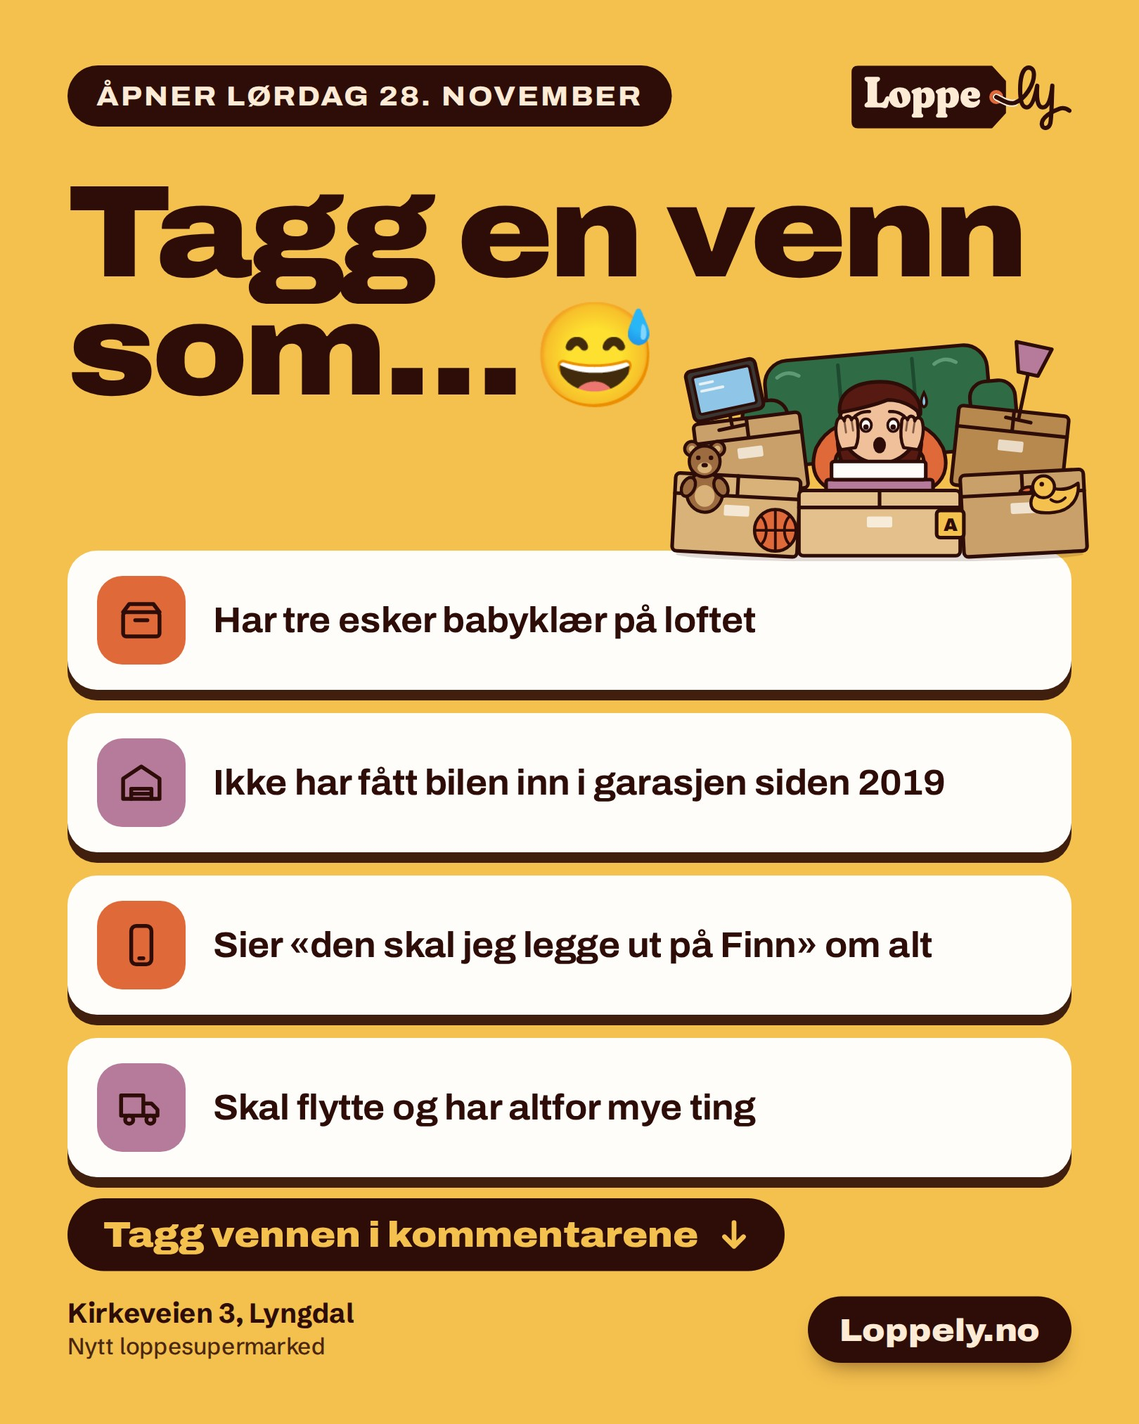
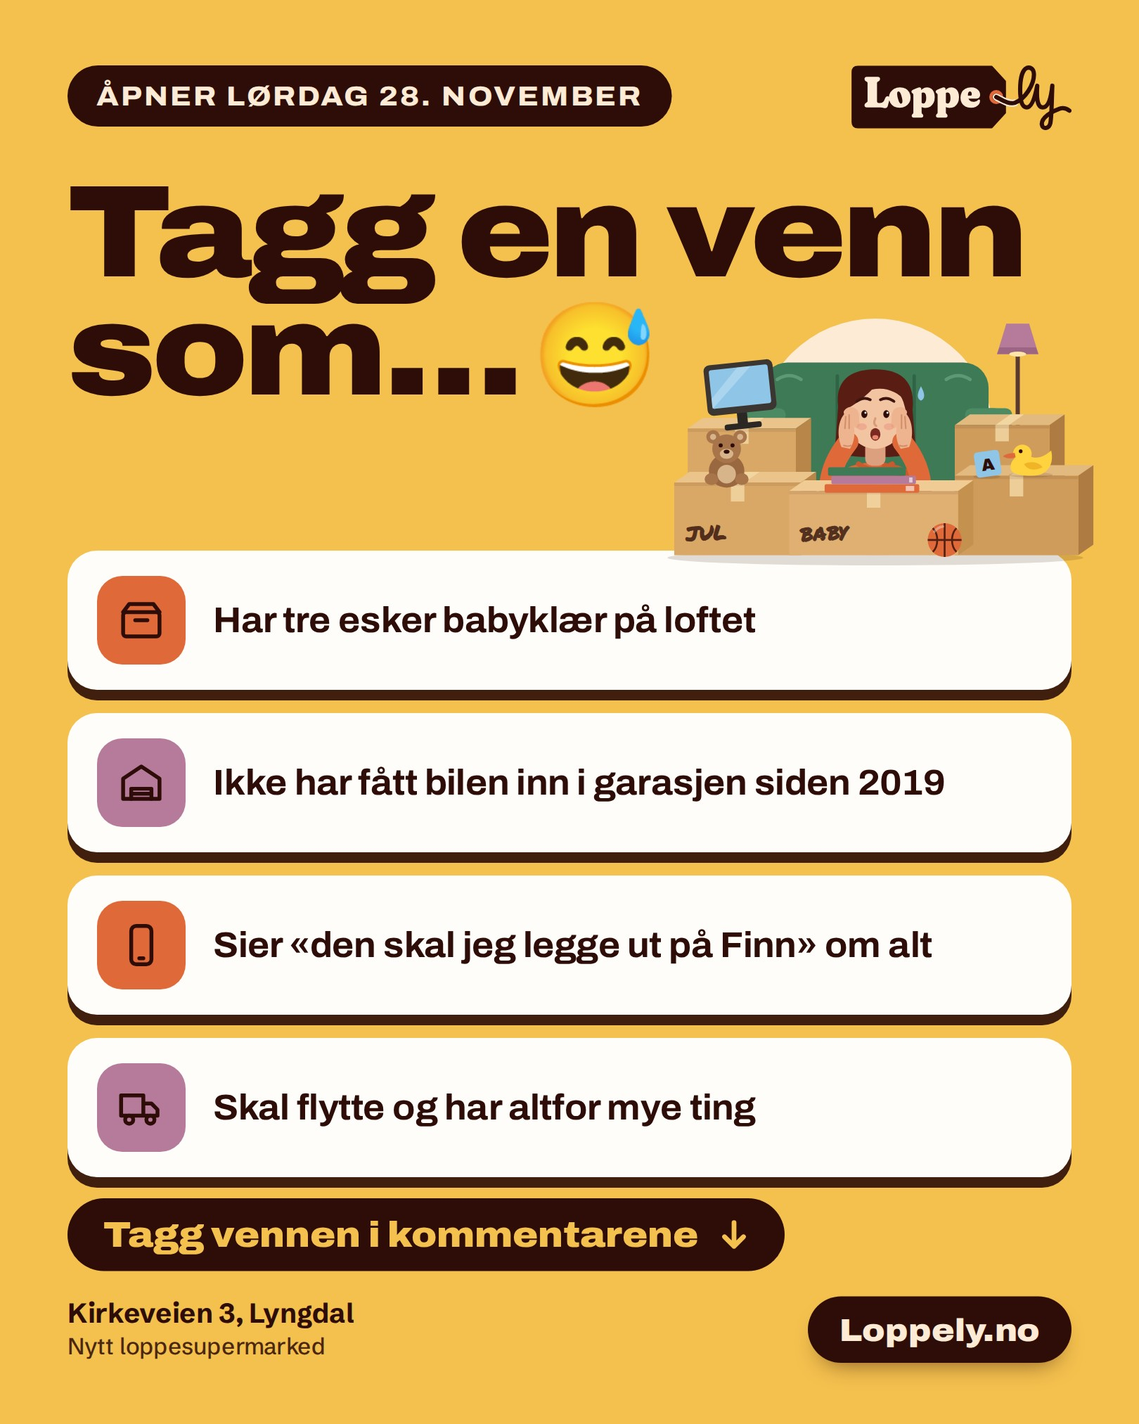
ads: post 21 ny, flat illustrasjon
Claude-Session: https://claude.ai/code/session_01RRhAi942qst8ZUNjrS2TNS

Changed region(s): [[0.5864, 0.2178, 0.9568, 0.4044]]

diff --git a/ads/index.html b/ads/index.html
@@ -47,7 +47,7 @@ footer a{color:inherit}
   </div>
   <div class="grid">
   <article class="card" id="01-konsept">
-    <a class="img" href="01-konsept.jpg?v=09291259" target="_blank"><img src="01-konsept.jpg?v=09291259" width="1620" height="2025" loading="lazy" alt="Konseptet på ett bilde"></a>
+    <a class="img" href="01-konsept.jpg?v=09291302" target="_blank"><img src="01-konsept.jpg?v=09291302" width="1620" height="2025" loading="lazy" alt="Konseptet på ett bilde"></a>
     <div class="body">
       <h2>Konseptet på ett bilde</h2>
       <p class="when">Første innlegg. Fest det øverst på siden.</p>
@@ -58,11 +58,11 @@ Loppely er et nytt loppesupermarked i Kirkeveien 3 i Lyngdal. Du leier en stand,
 Vi åpner lørdag 28. november.
 
 Les mer og meld interesse på Loppely.no</pre>
-      <div class="btns"><button class="btn copy" type="button">Kopier tekst</button><a class="btn ghost" href="01-konsept.jpg?v=09291259" download="01-konsept.jpg">Last ned bilde</a></div>
+      <div class="btns"><button class="btn copy" type="button">Kopier tekst</button><a class="btn ghost" href="01-konsept.jpg?v=09291302" download="01-konsept.jpg">Last ned bilde</a></div>
     </div>
   </article>
   <article class="card" id="02-slik-funker-det">
-    <a class="img" href="02-slik-funker-det.jpg?v=09291259" target="_blank"><img src="02-slik-funker-det.jpg?v=09291259" width="1620" height="2025" loading="lazy" alt="Slik funker det"></a>
+    <a class="img" href="02-slik-funker-det.jpg?v=09291302" target="_blank"><img src="02-slik-funker-det.jpg?v=09291302" width="1620" height="2025" loading="lazy" alt="Slik funker det"></a>
     <div class="body">
       <h2>Slik funker det</h2>
       <p class="when">Uke 1. Forklarer konseptet steg for steg.</p>
@@ -77,11 +77,11 @@ Du trenger ikke stå der selv. Følg salget på «Min side».
 
 Åpner lørdag 28. november i Kirkeveien 3, Lyngdal.
 Loppely.no</pre>
-      <div class="btns"><button class="btn copy" type="button">Kopier tekst</button><a class="btn ghost" href="02-slik-funker-det.jpg?v=09291259" download="02-slik-funker-det.jpg">Last ned bilde</a></div>
+      <div class="btns"><button class="btn copy" type="button">Kopier tekst</button><a class="btn ghost" href="02-slik-funker-det.jpg?v=09291302" download="02-slik-funker-det.jpg">Last ned bilde</a></div>
     </div>
   </article>
   <article class="card" id="03-her-er-vi">
-    <a class="img" href="03-her-er-vi.jpg?v=09291259" target="_blank"><img src="03-her-er-vi.jpg?v=09291259" width="1620" height="2025" loading="lazy" alt="Her finner du oss"></a>
+    <a class="img" href="03-her-er-vi.jpg?v=09291302" target="_blank"><img src="03-her-er-vi.jpg?v=09291302" width="1620" height="2025" loading="lazy" alt="Her finner du oss"></a>
     <div class="body">
       <h2>Her finner du oss</h2>
       <p class="when">Uke 2, og igjen uka før åpning.</p>
@@ -93,11 +93,11 @@ Loppely ligger i Kirkeveien 3, midt i Lyngdal sentrum. Gå rett ned trappen, så
 Vi åpner lørdag 28. november.
 
 Veibeskrivelse på Loppely.no</pre>
-      <div class="btns"><button class="btn copy" type="button">Kopier tekst</button><a class="btn ghost" href="03-her-er-vi.jpg?v=09291259" download="03-her-er-vi.jpg">Last ned bilde</a></div>
+      <div class="btns"><button class="btn copy" type="button">Kopier tekst</button><a class="btn ghost" href="03-her-er-vi.jpg?v=09291302" download="03-her-er-vi.jpg">Last ned bilde</a></div>
     </div>
   </article>
   <article class="card" id="04-priser">
-    <a class="img" href="04-priser.jpg?v=09291259" target="_blank"><img src="04-priser.jpg?v=09291259" width="1620" height="2025" loading="lazy" alt="Priser"></a>
+    <a class="img" href="04-priser.jpg?v=09291302" target="_blank"><img src="04-priser.jpg?v=09291302" width="1620" height="2025" loading="lazy" alt="Priser"></a>
     <div class="body">
       <h2>Priser</h2>
       <p class="when">Uke 2. Svarer på «hva koster det?».</p>
@@ -110,11 +110,11 @@ VIP: fra 349 kr per uke og 29% provisjon. Du leverer varene, vi gjør resten.
 Alle priser inkluderer mva. Laveste pris gjelder ved leie i 4 uker.
 
 Se alt på Loppely.no</pre>
-      <div class="btns"><button class="btn copy" type="button">Kopier tekst</button><a class="btn ghost" href="04-priser.jpg?v=09291259" download="04-priser.jpg">Last ned bilde</a></div>
+      <div class="btns"><button class="btn copy" type="button">Kopier tekst</button><a class="btn ghost" href="04-priser.jpg?v=09291302" download="04-priser.jpg">Last ned bilde</a></div>
     </div>
   </article>
   <article class="card" id="05-utbetalt">
-    <a class="img" href="05-utbetalt.jpg?v=09291259" target="_blank"><img src="05-utbetalt.jpg?v=09291259" width="1620" height="2025" loading="lazy" alt="Dette får du utbetalt"></a>
+    <a class="img" href="05-utbetalt.jpg?v=09291302" target="_blank"><img src="05-utbetalt.jpg?v=09291302" width="1620" height="2025" loading="lazy" alt="Dette får du utbetalt"></a>
     <div class="body">
       <h2>Dette får du utbetalt</h2>
       <p class="when">Uke 3. Gjør regnestykket konkret.</p>
@@ -125,11 +125,11 @@ Selger du noe for 500 kr hos Loppely, får du 405 kr. Provisjonen er 19%, og den
 Pengene betales ut til kontoen din hver måned.
 
 Regn på flere eksempler på Loppely.no</pre>
-      <div class="btns"><button class="btn copy" type="button">Kopier tekst</button><a class="btn ghost" href="05-utbetalt.jpg?v=09291259" download="05-utbetalt.jpg">Last ned bilde</a></div>
+      <div class="btns"><button class="btn copy" type="button">Kopier tekst</button><a class="btn ghost" href="05-utbetalt.jpg?v=09291302" download="05-utbetalt.jpg">Last ned bilde</a></div>
     </div>
   </article>
   <article class="card" id="06-forste-uke-gratis">
-    <a class="img" href="06-forste-uke-gratis.jpg?v=09291259" target="_blank"><img src="06-forste-uke-gratis.jpg?v=09291259" width="1620" height="2025" loading="lazy" alt="Første uke gratis"></a>
+    <a class="img" href="06-forste-uke-gratis.jpg?v=09291302" target="_blank"><img src="06-forste-uke-gratis.jpg?v=09291302" width="1620" height="2025" loading="lazy" alt="Første uke gratis"></a>
     <div class="body">
       <h2>Første uke gratis</h2>
       <p class="when">Når dere vil ha flere på interesselista.</p>
@@ -140,11 +140,11 @@ Meld interesse på Loppely.no, så får du første uke gratis når du leier stan
 Det er gratis og uforpliktende å stå på lista. Vi tar kontakt før åpning.
 
 Loppely åpner lørdag 28. november i Kirkeveien 3, Lyngdal.</pre>
-      <div class="btns"><button class="btn copy" type="button">Kopier tekst</button><a class="btn ghost" href="06-forste-uke-gratis.jpg?v=09291259" download="06-forste-uke-gratis.jpg">Last ned bilde</a></div>
+      <div class="btns"><button class="btn copy" type="button">Kopier tekst</button><a class="btn ghost" href="06-forste-uke-gratis.jpg?v=09291302" download="06-forste-uke-gratis.jpg">Last ned bilde</a></div>
     </div>
   </article>
   <article class="card" id="07-hva-kan-du-selge">
-    <a class="img" href="07-hva-kan-du-selge.jpg?v=09291259" target="_blank"><img src="07-hva-kan-du-selge.jpg?v=09291259" width="1620" height="2025" loading="lazy" alt="Hva kan du selge?"></a>
+    <a class="img" href="07-hva-kan-du-selge.jpg?v=09291302" target="_blank"><img src="07-hva-kan-du-selge.jpg?v=09291302" width="1620" height="2025" loading="lazy" alt="Hva kan du selge?"></a>
     <div class="body">
       <h2>Hva kan du selge?</h2>
       <p class="when">Uke 3. Får folk til å tenke på boden sin.</p>
@@ -155,11 +155,11 @@ Hos Loppely kan du selge klær, barneting, leker, bøker, kjøkkenutstyr, sports
 Større ting som sykler, barnevogner og mindre møbler selger du for 39 kr per uke.
 
 Se hva du kan selge på Loppely.no</pre>
-      <div class="btns"><button class="btn copy" type="button">Kopier tekst</button><a class="btn ghost" href="07-hva-kan-du-selge.jpg?v=09291259" download="07-hva-kan-du-selge.jpg">Last ned bilde</a></div>
+      <div class="btns"><button class="btn copy" type="button">Kopier tekst</button><a class="btn ghost" href="07-hva-kan-du-selge.jpg?v=09291302" download="07-hva-kan-du-selge.jpg">Last ned bilde</a></div>
     </div>
   </article>
   <article class="card" id="08-vip">
-    <a class="img" href="08-vip.jpg?v=09291259" target="_blank"><img src="08-vip.jpg?v=09291259" width="1620" height="2025" loading="lazy" alt="VIP: Vi gjør alt"></a>
+    <a class="img" href="08-vip.jpg?v=09291302" target="_blank"><img src="08-vip.jpg?v=09291302" width="1620" height="2025" loading="lazy" alt="VIP: Vi gjør alt"></a>
     <div class="body">
       <h2>VIP: Vi gjør alt</h2>
       <p class="when">For dem som ikke har tid.</p>
@@ -170,11 +170,11 @@ Du leverer varene, så tar vi bilder, priser og registrerer dem, og gjør stande
 Fra 349 kr per uke og 29% provisjon.
 
 Les mer på Loppely.no</pre>
-      <div class="btns"><button class="btn copy" type="button">Kopier tekst</button><a class="btn ghost" href="08-vip.jpg?v=09291259" download="08-vip.jpg">Last ned bilde</a></div>
+      <div class="btns"><button class="btn copy" type="button">Kopier tekst</button><a class="btn ghost" href="08-vip.jpg?v=09291302" download="08-vip.jpg">Last ned bilde</a></div>
     </div>
   </article>
   <article class="card" id="09-merk-datoen">
-    <a class="img" href="09-merk-datoen.jpg?v=09291259" target="_blank"><img src="09-merk-datoen.jpg?v=09291259" width="1620" height="2025" loading="lazy" alt="Merk datoen"></a>
+    <a class="img" href="09-merk-datoen.jpg?v=09291302" target="_blank"><img src="09-merk-datoen.jpg?v=09291302" width="1620" height="2025" loading="lazy" alt="Merk datoen"></a>
     <div class="body">
       <h2>Merk datoen</h2>
       <p class="when">2 til 3 uker før åpning, og dagen før.</p>
@@ -184,11 +184,11 @@ Lørdag 28. november kl. 10 åpner Loppely i Kirkeveien 3, Lyngdal. Et helt nytt
 
 Vil du selge? Meld interesse på Loppely.no
 Vil du handle? Vi sees 28. november!</pre>
-      <div class="btns"><button class="btn copy" type="button">Kopier tekst</button><a class="btn ghost" href="09-merk-datoen.jpg?v=09291259" download="09-merk-datoen.jpg">Last ned bilde</a></div>
+      <div class="btns"><button class="btn copy" type="button">Kopier tekst</button><a class="btn ghost" href="09-merk-datoen.jpg?v=09291302" download="09-merk-datoen.jpg">Last ned bilde</a></div>
     </div>
   </article>
   <article class="card" id="10-rydd-til-jul">
-    <a class="img" href="10-rydd-til-jul.jpg?v=09291259" target="_blank"><img src="10-rydd-til-jul.jpg?v=09291259" width="1620" height="2025" loading="lazy" alt="Rydd plass til jul"></a>
+    <a class="img" href="10-rydd-til-jul.jpg?v=09291302" target="_blank"><img src="10-rydd-til-jul.jpg?v=09291302" width="1620" height="2025" loading="lazy" alt="Rydd plass til jul"></a>
     <div class="body">
       <h2>Rydd plass til jul</h2>
       <p class="when">Fra midten av november.</p>
@@ -199,11 +199,11 @@ Leker barna har vokst fra, klær som ikke passer, ting som bare står i boden. D
 Lei en stand hos Loppely, så selger vi for deg gjennom hele julehandelen. Vi åpner lørdag 28. november.
 
 Loppely.no</pre>
-      <div class="btns"><button class="btn copy" type="button">Kopier tekst</button><a class="btn ghost" href="10-rydd-til-jul.jpg?v=09291259" download="10-rydd-til-jul.jpg">Last ned bilde</a></div>
+      <div class="btns"><button class="btn copy" type="button">Kopier tekst</button><a class="btn ghost" href="10-rydd-til-jul.jpg?v=09291302" download="10-rydd-til-jul.jpg">Last ned bilde</a></div>
     </div>
   </article>
   <article class="card" id="11-hvem-er-vi">
-    <a class="img" href="11-hvem-er-vi.jpg?v=09291259" target="_blank"><img src="11-hvem-er-vi.jpg?v=09291259" width="1620" height="2025" loading="lazy" alt="Hvem er vi"></a>
+    <a class="img" href="11-hvem-er-vi.jpg?v=09291302" target="_blank"><img src="11-hvem-er-vi.jpg?v=09291302" width="1620" height="2025" loading="lazy" alt="Hvem er vi"></a>
     <div class="body">
       <h2>Hvem er vi</h2>
       <p class="when">Tidlig. Folk handler med folk.</p>
@@ -214,11 +214,11 @@ Vi åpner Loppely i Lyngdal fordi vi mener gode ting fortjener et nytt hjem, og 
 Lørdag 28. november åpner vi dørene i Kirkeveien 3. Vi gleder oss til å se dere!
 
 Loppely.no</pre>
-      <div class="btns"><button class="btn copy" type="button">Kopier tekst</button><a class="btn ghost" href="11-hvem-er-vi.jpg?v=09291259" download="11-hvem-er-vi.jpg">Last ned bilde</a></div>
+      <div class="btns"><button class="btn copy" type="button">Kopier tekst</button><a class="btn ghost" href="11-hvem-er-vi.jpg?v=09291302" download="11-hvem-er-vi.jpg">Last ned bilde</a></div>
     </div>
   </article>
   <article class="card" id="12-for-og-etter">
-    <a class="img" href="12-for-og-etter.jpg?v=09291259" target="_blank"><img src="12-for-og-etter.jpg?v=09291259" width="1620" height="2025" loading="lazy" alt="Før og etter"></a>
+    <a class="img" href="12-for-og-etter.jpg?v=09291302" target="_blank"><img src="12-for-og-etter.jpg?v=09291302" width="1620" height="2025" loading="lazy" alt="Før og etter"></a>
     <div class="body">
       <h2>Før og etter</h2>
       <p class="when">Når som helst. Viser gevinsten på ett blikk.</p>
@@ -228,11 +228,11 @@ Lei en stand hos Loppely, sett prisen, og la oss selge tingene for deg. Du får 
 
 Åpner lørdag 28. november i Kirkeveien 3, Lyngdal.
 Loppely.no</pre>
-      <div class="btns"><button class="btn copy" type="button">Kopier tekst</button><a class="btn ghost" href="12-for-og-etter.jpg?v=09291259" download="12-for-og-etter.jpg">Last ned bilde</a></div>
+      <div class="btns"><button class="btn copy" type="button">Kopier tekst</button><a class="btn ghost" href="12-for-og-etter.jpg?v=09291302" download="12-for-og-etter.jpg">Last ned bilde</a></div>
     </div>
   </article>
   <article class="card" id="13-avstemning">
-    <a class="img" href="13-avstemning.jpg?v=09291259" target="_blank"><img src="13-avstemning.jpg?v=09291259" width="1620" height="2025" loading="lazy" alt="Avstemning: Hva ligger i boden?"></a>
+    <a class="img" href="13-avstemning.jpg?v=09291302" target="_blank"><img src="13-avstemning.jpg?v=09291302" width="1620" height="2025" loading="lazy" alt="Avstemning: Hva ligger i boden?"></a>
     <div class="body">
       <h2>Avstemning: Hva ligger i boden?</h2>
       <p class="when">For engasjement. Svar på kommentarene.</p>
@@ -246,11 +246,11 @@ D. Alt mulig rart
 Svar med bokstaven i kommentarfeltet. Uansett svar: alt dette kan du selge hos Loppely fra 28. november.
 
 Loppely.no</pre>
-      <div class="btns"><button class="btn copy" type="button">Kopier tekst</button><a class="btn ghost" href="13-avstemning.jpg?v=09291259" download="13-avstemning.jpg">Last ned bilde</a></div>
+      <div class="btns"><button class="btn copy" type="button">Kopier tekst</button><a class="btn ghost" href="13-avstemning.jpg?v=09291302" download="13-avstemning.jpg">Last ned bilde</a></div>
     </div>
   </article>
   <article class="card" id="14-19-prosent">
-    <a class="img" href="14-19-prosent.jpg?v=09291259" target="_blank"><img src="14-19-prosent.jpg?v=09291259" width="1620" height="2025" loading="lazy" alt="19%"></a>
+    <a class="img" href="14-19-prosent.jpg?v=09291302" target="_blank"><img src="14-19-prosent.jpg?v=09291302" width="1620" height="2025" loading="lazy" alt="19%"></a>
     <div class="body">
       <h2>19%</h2>
       <p class="when">Uke 3. Enkelt og tydelig.</p>
@@ -260,11 +260,11 @@ For det står vi i kassen, rydder standen hver dag, og du følger salget på «M
 
 Stand fra 200 kr per uke. Åpner 28. november.
 Loppely.no</pre>
-      <div class="btns"><button class="btn copy" type="button">Kopier tekst</button><a class="btn ghost" href="14-19-prosent.jpg?v=09291259" download="14-19-prosent.jpg">Last ned bilde</a></div>
+      <div class="btns"><button class="btn copy" type="button">Kopier tekst</button><a class="btn ghost" href="14-19-prosent.jpg?v=09291302" download="14-19-prosent.jpg">Last ned bilde</a></div>
     </div>
   </article>
   <article class="card" id="15-prislapp">
-    <a class="img" href="15-prislapp.jpg?v=09291259" target="_blank"><img src="15-prislapp.jpg?v=09291259" width="1620" height="2025" loading="lazy" alt="Prislappen"></a>
+    <a class="img" href="15-prislapp.jpg?v=09291302" target="_blank"><img src="15-prislapp.jpg?v=09291302" width="1620" height="2025" loading="lazy" alt="Prislappen"></a>
     <div class="body">
       <h2>Prislappen</h2>
       <p class="when">Når som helst. Blikkfang i feeden.</p>
@@ -274,11 +274,11 @@ Hos Loppely bestemmer du hva tingene dine skal koste. Du registrerer varene, skr
 
 Åpner lørdag 28. november.
 Loppely.no</pre>
-      <div class="btns"><button class="btn copy" type="button">Kopier tekst</button><a class="btn ghost" href="15-prislapp.jpg?v=09291259" download="15-prislapp.jpg">Last ned bilde</a></div>
+      <div class="btns"><button class="btn copy" type="button">Kopier tekst</button><a class="btn ghost" href="15-prislapp.jpg?v=09291302" download="15-prislapp.jpg">Last ned bilde</a></div>
     </div>
   </article>
   <article class="card" id="16-sjekkliste">
-    <a class="img" href="16-sjekkliste.jpg?v=09291259" target="_blank"><img src="16-sjekkliste.jpg?v=09291259" width="1620" height="2025" loading="lazy" alt="Sjekkliste før du leverer"></a>
+    <a class="img" href="16-sjekkliste.jpg?v=09291302" target="_blank"><img src="16-sjekkliste.jpg?v=09291302" width="1620" height="2025" loading="lazy" alt="Sjekkliste før du leverer"></a>
     <div class="body">
       <h2>Sjekkliste før du leverer</h2>
       <p class="when">Uka før åpning.</p>
@@ -293,11 +293,11 @@ Loppely.no</pre>
 Så er standen klar, og du får plass hjemme igjen. Vil du slippe alt dette? Velg VIP, så gjør vi det for deg.
 
 Loppely.no</pre>
-      <div class="btns"><button class="btn copy" type="button">Kopier tekst</button><a class="btn ghost" href="16-sjekkliste.jpg?v=09291259" download="16-sjekkliste.jpg">Last ned bilde</a></div>
+      <div class="btns"><button class="btn copy" type="button">Kopier tekst</button><a class="btn ghost" href="16-sjekkliste.jpg?v=09291302" download="16-sjekkliste.jpg">Last ned bilde</a></div>
     </div>
   </article>
   <article class="card" id="17-bra-for-alle">
-    <a class="img" href="17-bra-for-alle.jpg?v=09291259" target="_blank"><img src="17-bra-for-alle.jpg?v=09291259" width="1620" height="2025" loading="lazy" alt="Bra for lommeboka og miljøet"></a>
+    <a class="img" href="17-bra-for-alle.jpg?v=09291302" target="_blank"><img src="17-bra-for-alle.jpg?v=09291302" width="1620" height="2025" loading="lazy" alt="Bra for lommeboka og miljøet"></a>
     <div class="body">
       <h2>Bra for lommeboka og miljøet</h2>
       <p class="when">Når som helst. Myk og positiv.</p>
@@ -307,11 +307,11 @@ Når du selger det du ikke bruker, får du penger og plass hjemme. Og tingene di
 
 Loppely åpner i Lyngdal lørdag 28. november.
 Loppely.no</pre>
-      <div class="btns"><button class="btn copy" type="button">Kopier tekst</button><a class="btn ghost" href="17-bra-for-alle.jpg?v=09291259" download="17-bra-for-alle.jpg">Last ned bilde</a></div>
+      <div class="btns"><button class="btn copy" type="button">Kopier tekst</button><a class="btn ghost" href="17-bra-for-alle.jpg?v=09291302" download="17-bra-for-alle.jpg">Last ned bilde</a></div>
     </div>
   </article>
   <article class="card" id="18-min-side">
-    <a class="img" href="18-min-side.jpg?v=09291259" target="_blank"><img src="18-min-side.jpg?v=09291259" width="1620" height="2025" loading="lazy" alt="Følg salget på mobilen"></a>
+    <a class="img" href="18-min-side.jpg?v=09291302" target="_blank"><img src="18-min-side.jpg?v=09291302" width="1620" height="2025" loading="lazy" alt="Følg salget på mobilen"></a>
     <div class="body">
       <h2>Følg salget på mobilen</h2>
       <p class="when">Uke 3. Viser «Min side».</p>
@@ -321,11 +321,11 @@ På «Min side» ser du hva som er solgt, hva som står igjen, og hvor mye du ha
 
 Loppely åpner lørdag 28. november.
 Loppely.no</pre>
-      <div class="btns"><button class="btn copy" type="button">Kopier tekst</button><a class="btn ghost" href="18-min-side.jpg?v=09291259" download="18-min-side.jpg">Last ned bilde</a></div>
+      <div class="btns"><button class="btn copy" type="button">Kopier tekst</button><a class="btn ghost" href="18-min-side.jpg?v=09291302" download="18-min-side.jpg">Last ned bilde</a></div>
     </div>
   </article>
   <article class="card" id="19-sporsmal-og-svar">
-    <a class="img" href="19-sporsmal-og-svar.jpg?v=09291259" target="_blank"><img src="19-sporsmal-og-svar.jpg?v=09291259" width="1620" height="2025" loading="lazy" alt="Spørsmål og svar"></a>
+    <a class="img" href="19-sporsmal-og-svar.jpg?v=09291302" target="_blank"><img src="19-sporsmal-og-svar.jpg?v=09291302" width="1620" height="2025" loading="lazy" alt="Spørsmål og svar"></a>
     <div class="body">
       <h2>Spørsmål og svar</h2>
       <p class="when">Uke 2 til 4. Fjerner tvil.</p>
@@ -336,11 +336,11 @@ Hvem setter prisen? Du. Og du kan endre den underveis.
 Når får jeg pengene? Utbetaling hver måned.
 
 Har du flere spørsmål? Skriv i kommentarfeltet, eller les mer på Loppely.no</pre>
-      <div class="btns"><button class="btn copy" type="button">Kopier tekst</button><a class="btn ghost" href="19-sporsmal-og-svar.jpg?v=09291259" download="19-sporsmal-og-svar.jpg">Last ned bilde</a></div>
+      <div class="btns"><button class="btn copy" type="button">Kopier tekst</button><a class="btn ghost" href="19-sporsmal-og-svar.jpg?v=09291302" download="19-sporsmal-og-svar.jpg">Last ned bilde</a></div>
     </div>
   </article>
   <article class="card" id="20-kvittering">
-    <a class="img" href="20-kvittering.jpg?v=09291259" target="_blank"><img src="20-kvittering.jpg?v=09291259" width="1620" height="2025" loading="lazy" alt="Kvitteringen"></a>
+    <a class="img" href="20-kvittering.jpg?v=09291302" target="_blank"><img src="20-kvittering.jpg?v=09291302" width="1620" height="2025" loading="lazy" alt="Kvitteringen"></a>
     <div class="body">
       <h2>Kvitteringen</h2>
       <p class="when">Uke 3 eller 4. Konkret og morsom.</p>
@@ -352,11 +352,11 @@ Tallene er et eksempel. Du setter prisene selv.
 
 Loppely åpner lørdag 28. november.
 Loppely.no</pre>
-      <div class="btns"><button class="btn copy" type="button">Kopier tekst</button><a class="btn ghost" href="20-kvittering.jpg?v=09291259" download="20-kvittering.jpg">Last ned bilde</a></div>
+      <div class="btns"><button class="btn copy" type="button">Kopier tekst</button><a class="btn ghost" href="20-kvittering.jpg?v=09291302" download="20-kvittering.jpg">Last ned bilde</a></div>
     </div>
   </article>
   <article class="card" id="21-tagg-en-venn">
-    <a class="img" href="21-tagg-en-venn.jpg?v=09291259" target="_blank"><img src="21-tagg-en-venn.jpg?v=09291259" width="1620" height="2025" loading="lazy" alt="Tagg en venn"></a>
+    <a class="img" href="21-tagg-en-venn.jpg?v=09291302" target="_blank"><img src="21-tagg-en-venn.jpg?v=09291302" width="1620" height="2025" loading="lazy" alt="Tagg en venn"></a>
     <div class="body">
       <h2>Tagg en venn som…</h2>
       <p class="when">For rekkevidde. Folk kjenner seg igjen og tagger.</p>
@@ -371,7 +371,7 @@ Hvem tenker du på? Tagg vennen din i kommentarene! 😄
 
 Hos Loppely leier de en stand, og vi selger tingene for dem. Åpner lørdag 28. november i Kirkeveien 3, Lyngdal.
 Loppely.no</pre>
-      <div class="btns"><button class="btn copy" type="button">Kopier tekst</button><a class="btn ghost" href="21-tagg-en-venn.jpg?v=09291259" download="21-tagg-en-venn.jpg">Last ned bilde</a></div>
+      <div class="btns"><button class="btn copy" type="button">Kopier tekst</button><a class="btn ghost" href="21-tagg-en-venn.jpg?v=09291302" download="21-tagg-en-venn.jpg">Last ned bilde</a></div>
     </div>
   </article>
   </div>
